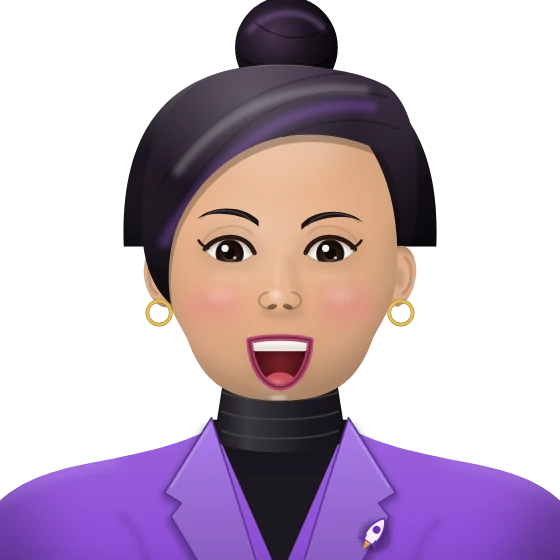
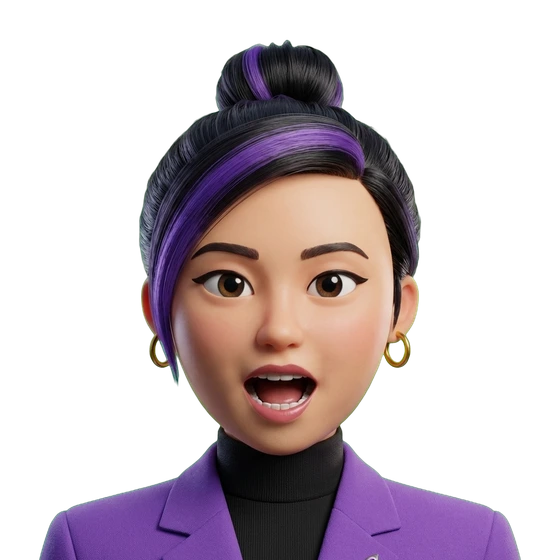
Repaint all new seats in Hormozi's 3D style
- Seven portraits (Sales, Promo, KOL, Live, MKP, MKT, Godin) rendered with
  Gemini using Hormozi's portrait as the style and framing reference
- Lip-sync frames: only the changed mouth/eye pixels are composited onto
  the base, so frames match everywhere else; chroma-keyed (magenta for MKP's
  green polo) and aligned to Hormozi's scale
- tools/portraits/gen.py to regenerate or add seats (GEMINI_API_KEY from env)
- Caption clears only nameplates over the middle half; new README screenshot

Claude-Session: https://claude.ai/code/session_011yxmv8urf6XFrMJ8rtjQiV

diff --git a/app/public/app.js b/app/public/app.js
@@ -174,8 +174,8 @@ function layoutStage() {
   } else {
     stage.style.paddingTop = "";
     // the captions start below the lowest nameplate they could collide with
-    // only nameplates over the caption column (20% to 80% of the width) can collide with it
-    const inner = at.filter((x) => state.geo[x.key].x > W * 0.2 && state.geo[x.key].x < W * 0.8).map((x) => $(`#plate-${x.key}`));
+    // only nameplates over the caption text (the middle half of the width) can collide with it
+    const inner = at.filter((x) => state.geo[x.key].x > W * 0.25 && state.geo[x.key].x < W * 0.75).map((x) => $(`#plate-${x.key}`));
     const top = Math.max(...inner.map((p) => p.offsetTop + p.offsetHeight / 2)) + H * 0.035;
     Object.assign(c.style, { left: `${W * 0.2}px`, width: `${W * 0.6}px`, top: `${top}px`, height: `${H - top - H * 0.09}px` });
   }

diff --git a/tools/portraits/gen.py b/tools/portraits/gen.py
@@ -1,0 +1,160 @@
+"""Generate Hormozi-style 3D portraits with Gemini, then derive lip-sync frames.
+
+Needs GEMINI_API_KEY in the environment. Work files go to tools/portraits/work/ (not committed).
+Add a seat to DESIGN below, then run base, look at work/<key>-base.png, re-run base until you
+like it, then frames, check the four frames, then final.
+
+usage: python3 gen.py base <key>...      # new base renders (keeps old ones as base-<n>.png)
+       python3 gen.py frames <key>...    # open / mid / blink frames from the chosen base
+       python3 gen.py final <key>...     # key out green, align, write 560x560 webp to the app
+"""
+import base64, io, json, os, sys, time, urllib.request
+import numpy as np
+from PIL import Image, ImageFilter
+
+ROOT = os.path.dirname(os.path.dirname(os.path.dirname(os.path.abspath(__file__))))
+HERE = os.path.join(os.path.dirname(os.path.abspath(__file__)), "work")
+os.makedirs(HERE, exist_ok=True)
+KEY = os.environ.get("GEMINI_API_KEY", "")
+APP = os.path.join(ROOT, "app", "public", "portraits")
+MODEL = os.environ.get("GEM_MODEL", "gemini-3-pro-image")
+GREEN = (0, 255, 0)
+MAGENTA_SEATS = {"mkp"}  # green clothes: shoot these on magenta instead
+
+DESIGN = {
+    "sales": "a Thai man in his late 30s, Head of Sales Performance: neat short black hair with a side part, thin rectangular dark-rimmed glasses, calm precise half-smile, navy blazer over a light blue open-collar shirt, small blue bar-chart lapel pin",
+    "promo": "a Thai woman in her mid 30s, Head of Pricing and Promotion: sleek black chin-length bob, shrewd confident smile with one eyebrow slightly raised, coral-orange blouse, small gold percent-sign brooch",
+    "kol": "a young Thai woman in her late 20s, Head of Creator Strategy: long glossy dark-brown hair with a pearl hair clip, warm bright smile, pink blazer over a white top, small gold hoop earrings, a soft circular ring-light glow behind her head",
+    "live": "an energetic Thai man around 30, Head of Live Commerce and livestream host: styled black quiff, big friendly grin, a thin black headset microphone with the boom by his cheek, red jacket over a black t-shirt",
+    "mkp": "a practical Thai man in his early 40s, Head of Marketplace operations: short neat crew cut greying slightly at the temples, steady trustworthy expression, green polo shirt, small gold shopping-bag pin",
+    "mkt": "a stylish Thai woman in her early 30s, Head of Marketing and Growth: black hair in a high top bun with a violet streak, confident creative smile, purple blazer over a black turtleneck, small rocket lapel pin, gold hoop earrings",
+    "godin": "a caricature of marketing author Seth Godin: completely bald head, his signature thick bright yellow eyeglasses, big warm smile, plain black shirt",
+}
+
+STYLE = ("Create a NEW character portrait rendered in EXACTLY the same style as the FIRST reference image: "
+         "the same stylised 3D caricature render (Pixar-like CGI, slightly oversized head, soft subsurface skin, "
+         "detailed hair strands, realistic fabric), the same studio lighting, the same camera angle, the same framing and scale: "
+         "a head-and-shoulders bust facing the camera, head centred, shoulders running off the bottom edge, head about the same size in frame. "
+         "Mouth closed with a gentle smile, eyes open looking at the camera. "
+         "Use the SECOND reference image only as a loose guide for the character design (hair, glasses, clothing colours, accessories); the text description wins. "
+         "The character: {d}. "
+         "Background: a perfectly flat, uniform pure chroma-key green (#00FF00) with no gradient, no shadow, no floor and nothing else. "
+         "No text, no logos. Square image.")
+
+FRAME = {
+    "open": "Return this exact same image with ONE change only: the mouth is wide open as if saying 'aah', showing teeth and tongue naturally. Keep everything else identical: face, eyes, hair, clothes, lighting, framing, background.",
+    "mid": "Return this exact same image with ONE change only: the mouth is half open in a rounded shape as if saying 'oh'. Keep everything else identical: face, eyes, hair, clothes, lighting, framing, background.",
+    "blink": "Return this exact same image with ONE change only: both eyes are fully closed in a natural blink (eyelids down), mouth exactly as it is now. Keep everything else identical: hair, glasses, clothes, lighting, framing, background.",
+}
+
+
+def png_bytes(im):
+    b = io.BytesIO(); im.save(b, "PNG"); return b.getvalue()
+
+
+def on_green(path, size=1024):
+    im = Image.open(path).convert("RGBA")
+    bg = Image.new("RGBA", im.size, GREEN + (255,)); bg.alpha_composite(im)
+    return bg.convert("RGB").resize((size, size), Image.LANCZOS)
+
+
+def gemini(prompt, images):
+    parts = [{"text": prompt}] + [{"inline_data": {"mime_type": "image/png", "data": base64.b64encode(png_bytes(i)).decode()}} for i in images]
+    body = {"contents": [{"parts": parts}], "generationConfig": {"responseModalities": ["IMAGE"], "imageConfig": {"aspectRatio": "1:1"}}}
+    url = f"https://generativelanguage.googleapis.com/v1beta/models/{MODEL}:generateContent?key={KEY}"
+    for attempt in range(4):
+        try:
+            req = urllib.request.Request(url, json.dumps(body).encode(), {"content-type": "application/json"})
+            r = json.load(urllib.request.urlopen(req, timeout=240))
+            for c in r.get("candidates", []):
+                for p in c.get("content", {}).get("parts", []):
+                    d = p.get("inline_data") or p.get("inlineData")
+                    if d:
+                        return Image.open(io.BytesIO(base64.b64decode(d["data"]))).convert("RGB")
+            print("  no image in response:", json.dumps(r)[:400])
+        except Exception as e:
+            print("  error:", str(e)[:300])
+        time.sleep(4 * (attempt + 1))
+    raise SystemExit("gemini failed")
+
+
+def base(key):
+    if not KEY:
+        raise SystemExit("Set GEMINI_API_KEY first.")
+    ref = on_green(f"{APP}/hormozi-base.webp")
+    # the seat's current portrait (if any) guides the character design
+    old = on_green(f"{APP}/{key}-base.webp") if os.path.exists(f"{APP}/{key}-base.webp") else ref
+    prompt = STYLE.format(d=DESIGN[key])
+    if key in MAGENTA_SEATS:
+        prompt = prompt.replace("pure chroma-key green (#00FF00)", "pure chroma-key magenta (#FF00FF)")
+    im = gemini(prompt, [ref, old])
+    n = len([f for f in os.listdir(HERE) if f.startswith(f"{key}-base")])
+    im.save(f"{HERE}/{key}-base-{n}.png"); im.save(f"{HERE}/{key}-base.png")
+    print(key, "base", im.size)
+
+
+def frames(key):
+    b = Image.open(f"{HERE}/{key}-base.png").convert("RGB")
+    for fr, prompt in FRAME.items():
+        im = gemini(prompt, [b]).resize(b.size, Image.LANCZOS)
+        im.save(f"{HERE}/{key}-{fr}-raw.png")
+        # keep only the pixels that changed in the face area, so frames match the base everywhere else
+        a, e = np.asarray(b).astype(int), np.asarray(im).astype(int)
+        diff = np.abs(a - e).sum(2)
+        h, w = diff.shape
+        box = np.zeros_like(diff, bool)
+        box[int(h * .18):int(h * .80), int(w * .25):int(w * .75)] = True
+        m = (diff > 60) & box
+        mask = Image.fromarray((m * 255).astype("uint8")).filter(ImageFilter.MaxFilter(15)).filter(ImageFilter.GaussianBlur(6))
+        out = Image.composite(im, b, mask)
+        out.save(f"{HERE}/{key}-{fr}.png")
+        print(key, fr, "changed px:", int(m.sum()))
+
+
+def key_green(im, magenta=False):
+    a = np.asarray(im.convert("RGB")).astype(float)
+    r, g, b_ = a[..., 0], a[..., 1], a[..., 2]
+    if magenta:
+        greenness = np.minimum(r, b_) - g             # how much magenta dominates
+    else:
+        greenness = g - np.maximum(r, b_)             # how much green dominates
+    alpha = np.clip(1 - (greenness - 40) / 80, 0, 1)  # >120 = background, <40 = subject
+    # despill: pull green down to the other channels on edge pixels
+    spill = np.clip(greenness, 0, None)
+    if magenta:
+        cap = g + spill * 0.15
+        out = np.dstack([np.where(spill > 0, np.minimum(r, cap), r), g, np.where(spill > 0, np.minimum(b_, cap), b_), alpha * 255]).astype("uint8")
+    else:
+        g2 = np.where(spill > 0, np.maximum(r, b_) + spill * 0.15, g)
+        out = np.dstack([r, np.minimum(g, g2), b_, alpha * 255]).astype("uint8")
+    return Image.fromarray(out, "RGBA")
+
+
+def final(key):
+    # one alignment for all four frames, computed on the base
+    keyed = {fr: key_green(Image.open(f"{HERE}/{key}-{fr}.png"), key in MAGENTA_SEATS) for fr in ["base", "open", "mid", "blink"]}
+    al = np.asarray(keyed["base"])[..., 3] > 128
+    ys, xs = np.where(al)
+    top, cx = ys.min(), (xs.min() + xs.max()) / 2
+    W = keyed["base"].width
+    # match Hormozi: head top near 6% of the frame, bust filling the bottom edge
+    ref = np.asarray(Image.open(f"{APP}/hormozi-base.webp").convert("RGBA"))[..., 3] > 128
+    rys, rxs = np.where(ref)
+    ref_top = rys.min() / ref.shape[0]
+    scale = (1 - ref_top) / ((W - top) / W)           # subject height from top to bottom edge
+    for fr, im in keyed.items():
+        S = int(W * scale)
+        big = im.resize((S, S), Image.LANCZOS)
+        canvas = Image.new("RGBA", (S, S), (0, 0, 0, 0))
+        dx = int(S / 2 - cx * scale); dy = int(ref_top * S - top * scale)
+        canvas.alpha_composite(big, (max(0, dx), max(0, dy)) if dx >= 0 and dy >= 0 else (0, 0))
+        if dx < 0 or dy < 0:
+            canvas = Image.new("RGBA", (S, S), (0, 0, 0, 0)); canvas.paste(big, (dx, dy), big)
+        canvas.resize((560, 560), Image.LANCZOS).save(f"{APP}/{key}-{fr}.webp", quality=92)
+    print(key, "final written")
+
+
+if __name__ == "__main__":
+    cmd, keys = sys.argv[1], sys.argv[2:]
+    for k in keys:
+        {"base": base, "frames": frames, "final": final}[cmd](k)

diff --git a/README.md b/README.md
@@ -90,6 +90,7 @@ In API mode the seats cannot open files, so the room loads the vault for them: e
 | `.claude/agents/` | The 8 council seat agents, plus copies of the six `moonshot-*` expert definitions |
 | `app/` | The room: a zero-dependency Node server, the web page, and the PDF builder |
 | `install.sh` | Installs everything into the vault |
+| `tools/portraits/` | The portrait generator (Gemini, Hormozi's 3D style, four lip-sync frames per seat); needs `GEMINI_API_KEY` |
 | `reports/`, `research_notes/` | The research behind the house brains |
 
 ## About the seats
